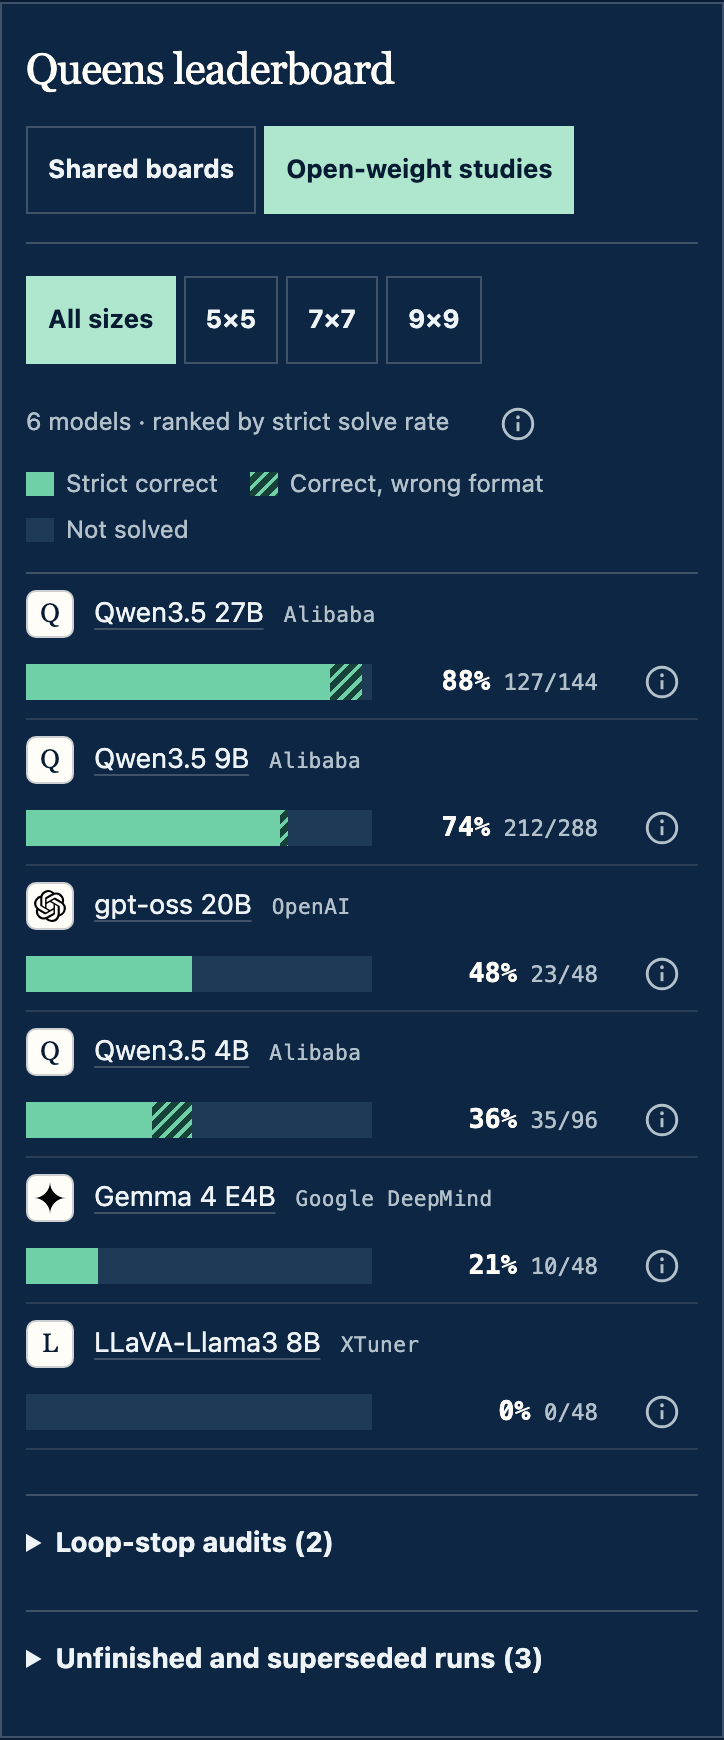
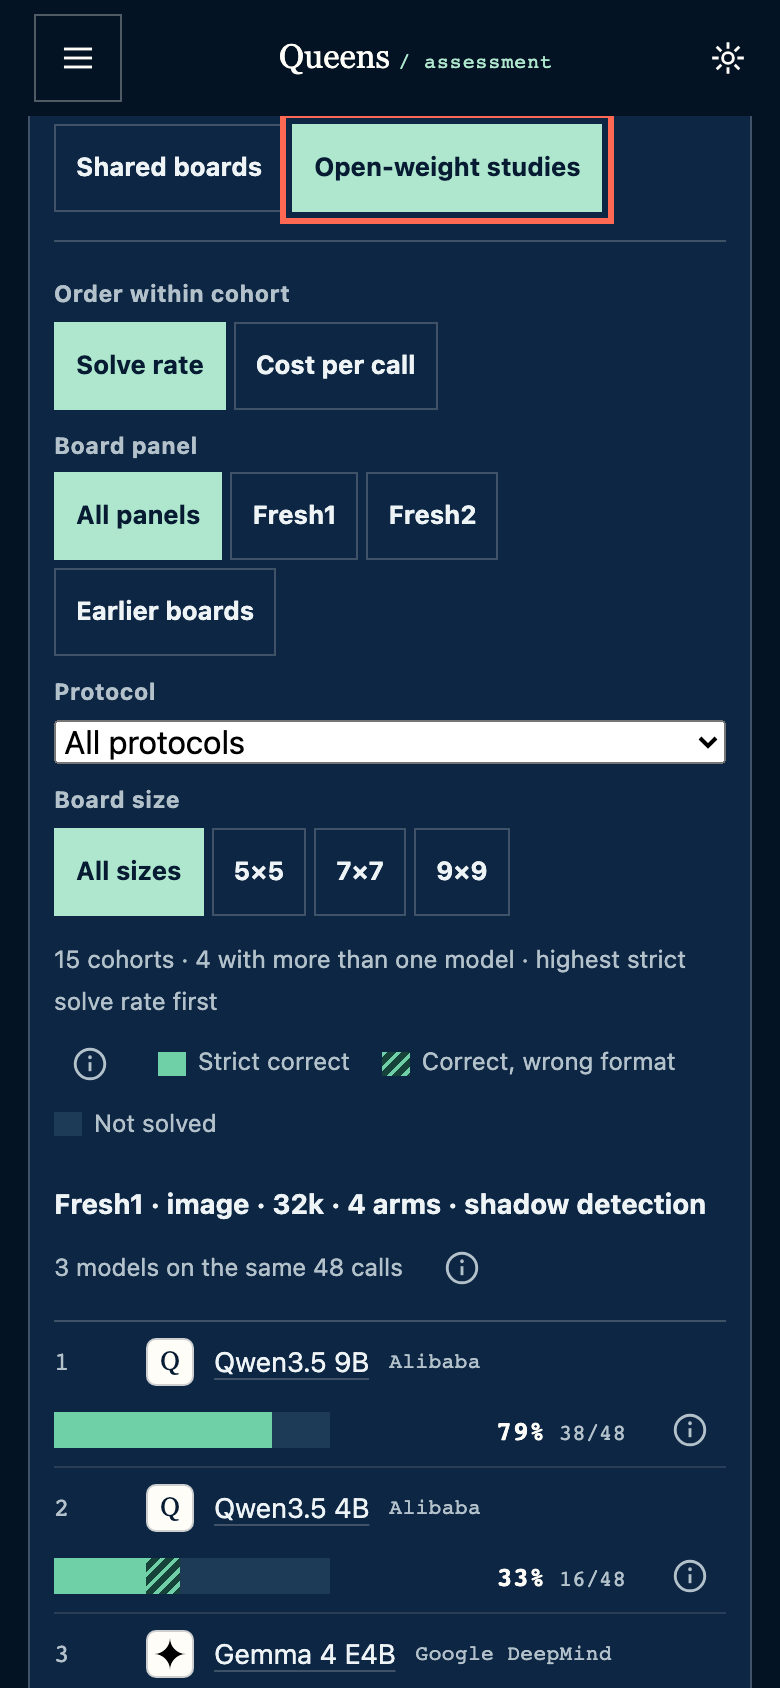
Check frozen inputs for ranked studies and refresh review screenshots

diff --git a/.empower/pr-24/README.md b/.empower/pr-24/README.md
@@ -1,16 +1,16 @@
 # Review screenshots for pull request 24
 
-Captured 12 November 2026 with headless Chromium from the local preview of this branch, at 1440×900 and 390×844 (device scale 2). Automated checks at every capture: no horizontal page scroll, no console errors.
+Images 04, 05, 07 and 08 show the comparable-study revision from 21 November 2026. The remaining images document the 12 November scatter and earlier layout. Captures used headless Chromium at 1440×900 and 390×844. The revised view also passed keyboard, accessibility-tree and viewport checks at 320 pixels.
 
 | File | What it shows |
 | --- | --- |
 | [01-scatter-default-desktop.png](01-scatter-default-desktop.png) | Default scatter; Solved vs cost leftmost and selected |
 | [02-scatter-default-phone.png](02-scatter-default-phone.png) | Portrait scatter default; no rotate prompt |
 | [03-before-default-desktop.png](03-before-default-desktop.png) | Old default and three-view control row |
-| [04-open-weight-desktop.png](04-open-weight-desktop.png) | One model per bar, descending strict rate |
-| [05-open-weight-phone.png](05-open-weight-phone.png) | Single model bars descending on phone |
+| [04-open-weight-desktop.png](04-open-weight-desktop.png) | Study results ordered within matched cohorts, with panel, protocol and board-size controls |
+| [05-open-weight-phone.png](05-open-weight-phone.png) | Cohort counts and controls on a phone in dark mode |
 | [06-before-open-weight-desktop.png](06-before-open-weight-desktop.png) | Old three dropdowns and long configuration lines (top of study list) |
-| [07-model-info-desktop.png](07-model-info-desktop.png) | Full model information bubble |
-| [08-how-to-read-desktop.png](08-how-to-read-desktop.png) | Pooling caveat and outcome definitions |
+| [07-model-info-desktop.png](07-model-info-desktop.png) | Details for one model’s saved study |
+| [08-how-to-read-desktop.png](08-how-to-read-desktop.png) | Comparable-study rules, time limits and estimated costs |
 | [09-keyboard-focus-desktop.png](09-keyboard-focus-desktop.png) | Keyboard focus visible on view control |
 | [10-scatter-zoom-phone.png](10-scatter-zoom-phone.png) | Portrait scatter zoomed |
